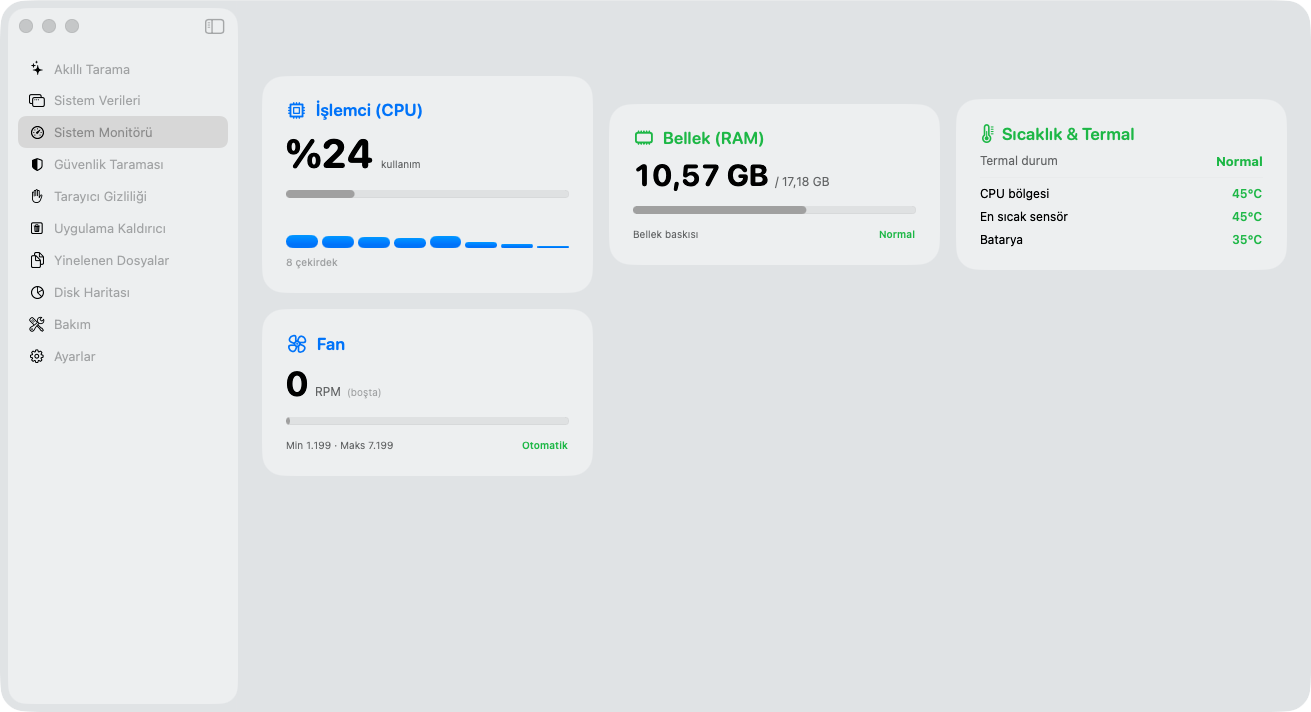
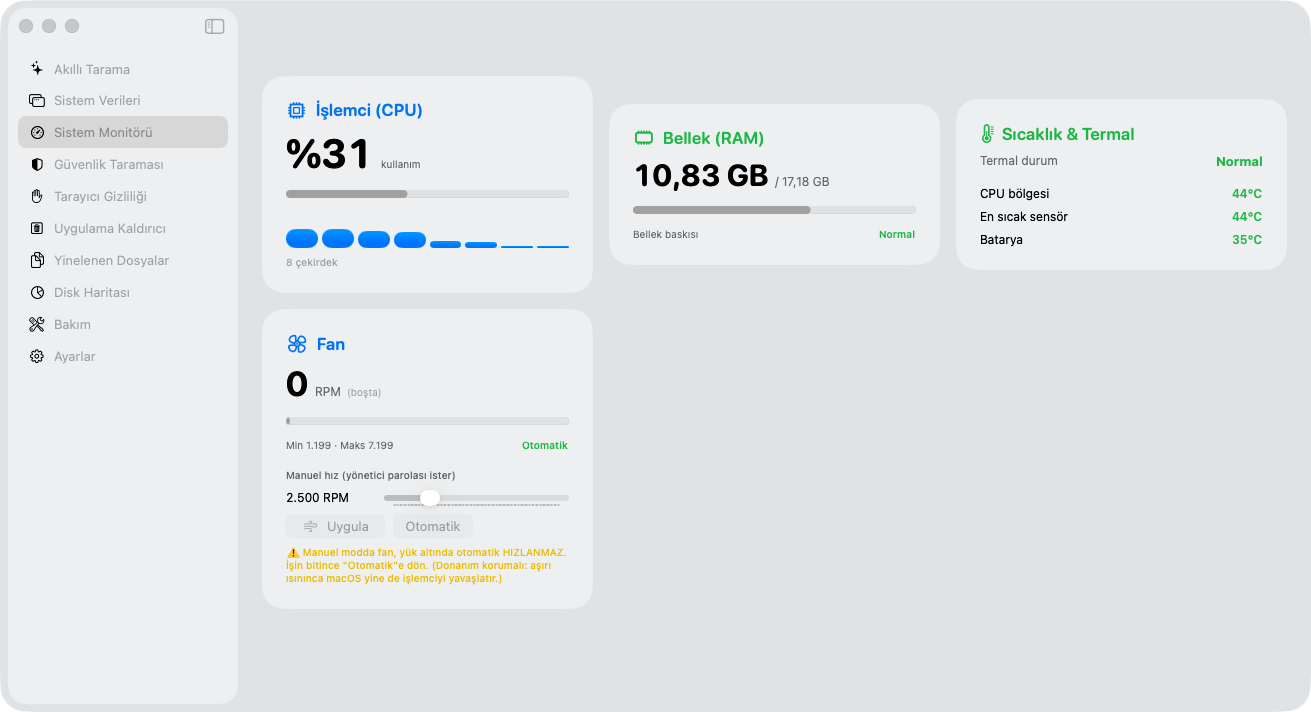
README: fan kontrolü özelliği + kıyaslama satırı + güncel görsel

diff --git a/README.md b/README.md
@@ -86,6 +86,7 @@ Reads directly from the **SMC** (System Management Controller) and Mach APIs: li
 | **Real Liquid Glass UI** (macOS 26) | ✅ **Only PureGlass** | ❌ | ❌ | ❌ | ❌ | ❌ |
 | **Transparent menu-bar panel + live disk** | ✅ | menu only | ✅ | ❌ | ❌ | ❌ |
 | **Live system monitor** (CPU/temp/fan, SMC) | ✅ | ❌ | ✅ | ❌ | ❌ | ❌ |
+| **Fan control** (manual RPM, M1/M2) | ✅ | ❌ | ❌ | ❌ | ❌ | ❌ |
 | **Smart Scan (one-click)** | ✅ | ✅ | ✅ | ❌ | partial | ❌ |
 | **System Junk** | ✅ | ✅ | ✅ | — | ✅ | limited |
 | **System Data breakdown + undeletable sizes** | ✅ **Unique** | ❌ | ❌ | ❌ | ❌ | ❌ |
@@ -123,6 +124,7 @@ binaries breaks their code signature and risks breaking the app.)*
 - **Maintenance** — OnyX-style system tasks (DNS flush, Spotlight reindex, Launch Services, periodic, purge, fonts).
 - **Browser Privacy** — clear cache/history/cookies for Safari, Chrome, Firefox, Brave, Edge.
 - **System Monitor** — live CPU (per-core), memory pressure, thermal state, CPU/battery temperature and fan RPM, read from the SMC + Mach APIs every second. No root.
+- **Fan control** (M1/M2) — set a manual fan RPM via a bundled root helper (one password prompt). Apple blocks fan writes on M3+, so it's read-only there — stated honestly in the UI.
 - **Live deletion log** — every path scrolls by as it's trashed.
 - **Risk badges** everywhere (🟢 safe · 🟡 caution · 🔴 risky) and a confirmation prompt before any risky delete.
 - **Deep clean** (optional) — system caches/logs via a single admin-password prompt; system items are validated
@@ -192,7 +194,7 @@ Tests/            79 unit tests (safety, scan, clean, signing, treemap, duplicat
 
 ## Roadmap
 
-- **Fan control** (manual RPM, M1/M2 only — Apple blocks it on M3+) · English/i18n · simulator-runtime cleanup via `simctl`.
+- English / multi-language localization · simulator-runtime cleanup via `simctl` · scheduled background scans · per-core P/E labelling.
 
 ## License
 
